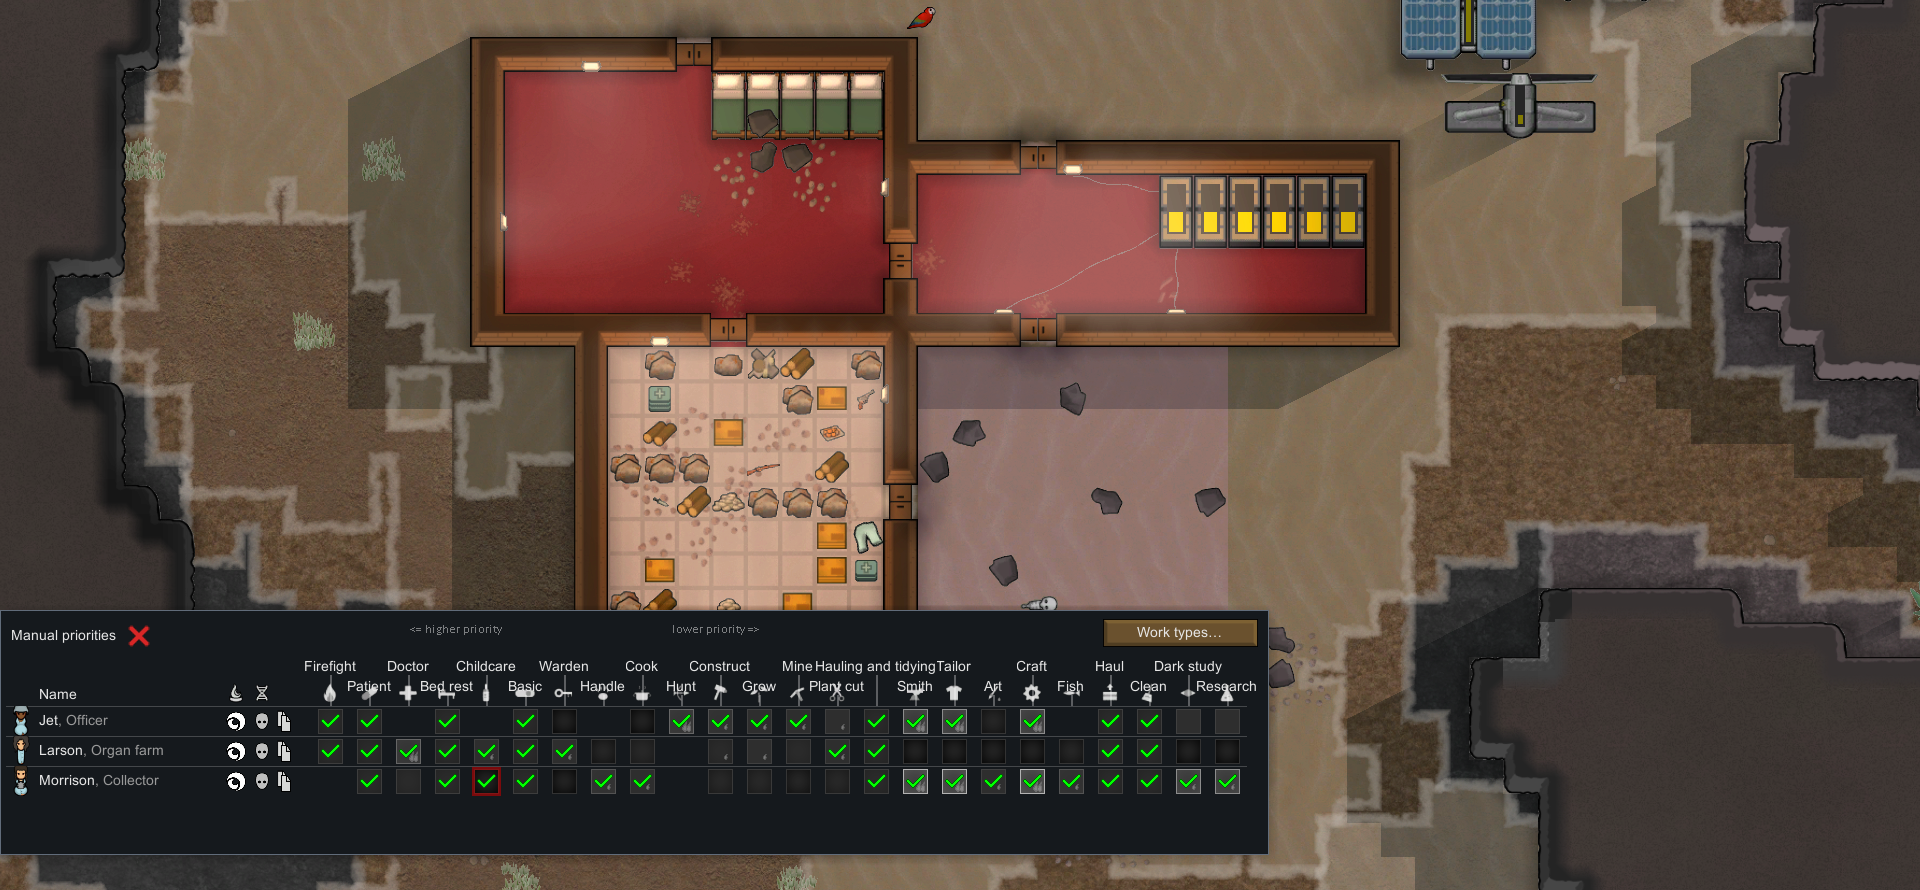
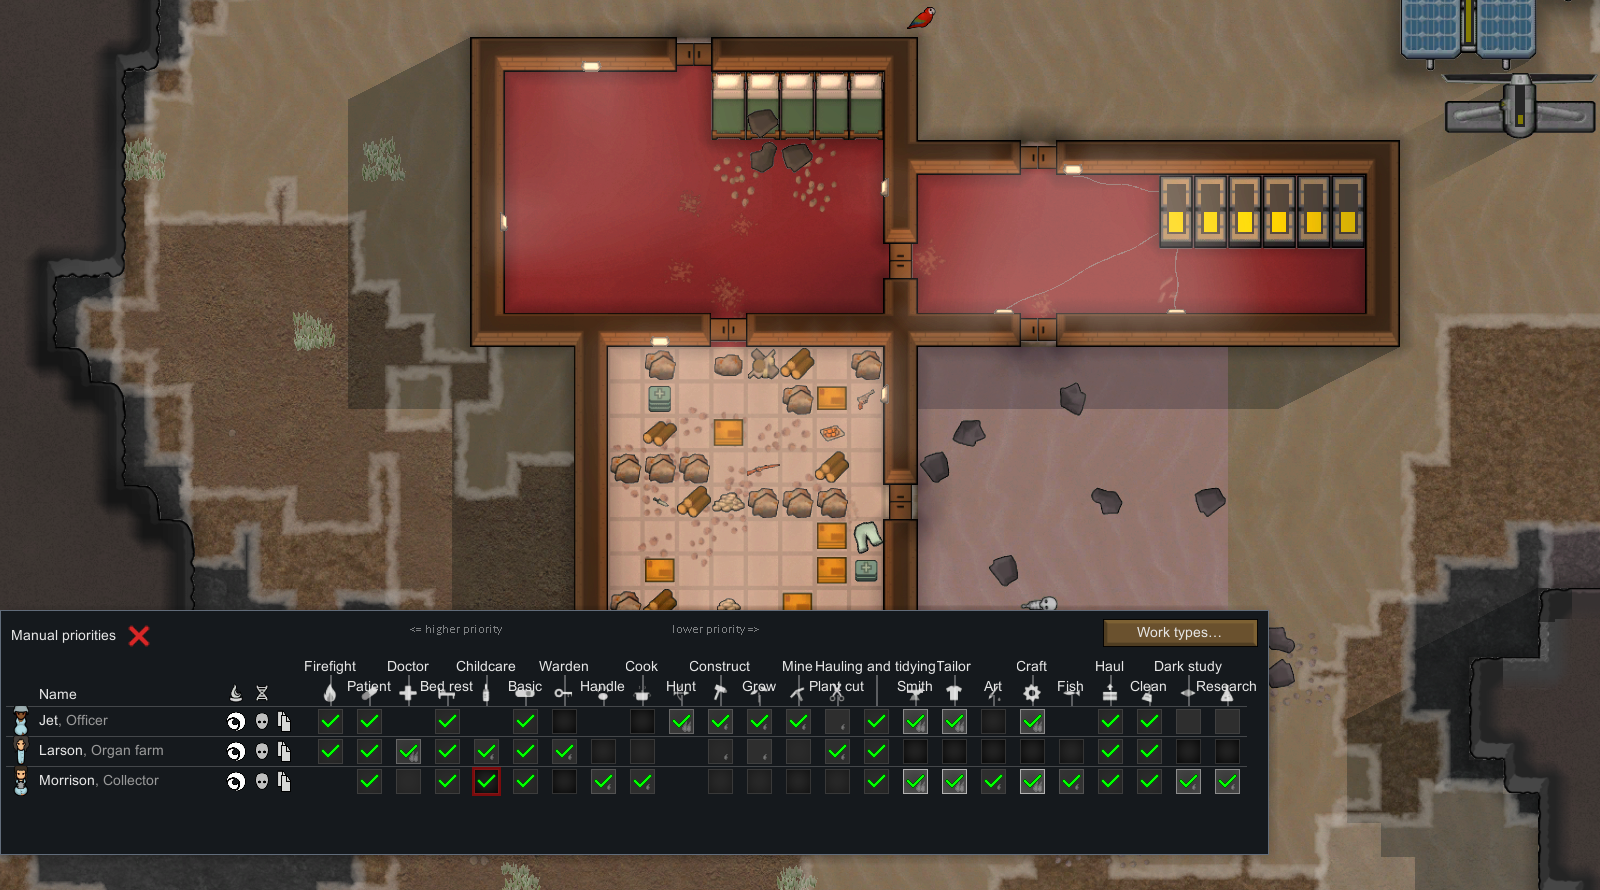
Keep every Workshop screenshot under 2 MB, and document the rule
Re-cropped image 2 tighter (trimming the empty desert on the right, not just the sky) to bring
it from 2.3 MB to 1.78 MB. A first attempt resized it instead of cropping further and made it
BIGGER (2.2 -> 3.0 MB): resampling with interpolation blurs the pixel-art's flat regions and
hurts PNG compression. PUBLICATION.md now says to crop, not resize, and to check the byte size
before calling an upload ready.

diff --git a/PUBLICATION.md b/PUBLICATION.md
@@ -28,6 +28,11 @@ gaps is the owner's call, recorded here rather than hidden.
 
 ## Screenshot order
 
+**Each upload stays under 2 MB.** Pickle's raw captures are ~2-3 MB PNGs at 1920x1080; cropping the
+empty margin (never resampling — resizing with interpolation blurs flat pixel-art regions and can
+make the file BIGGER despite fewer pixels, as it did on the first attempt for image 2 below) is
+usually enough on its own. Check with `(Get-Item <file>).Length / 1MB` before calling one ready.
+
 Steam shows the first one large: it should be the most demonstrative, not the prettiest. Order,
 with what each proves, and where the file to upload is:
 
@@ -39,12 +44,13 @@ with what each proves, and where the file to upload is:
    `14-publication-shots.feature`, English, then `Art/Update-WorkshopScreenshots.ps1`), and this
    slot stays empty until then.
 2. **The new column, seen from the Work tab**: it exists immediately, no restart.
-   **`Art/Workshop/ready/02-the-new-column.png`, 1920×890 — ready.** Cropped 2026-09-22 from the
-   original 1920×1080 (`y 190-1080`) to trim the empty sky/solar-panel strip at the top; the
-   priorities panel and the built rooms now fill more of the frame. Nothing in the dialog was cut.
+   **`Art/Workshop/ready/02-the-new-column.png`, 1600×890, 1.78 MB — ready.** Cropped 2026-09-22 from
+   the original 1920×1080 (`x 0-1600, y 190-1080`) to trim the empty sky and the mostly-empty desert
+   on the right (solar panels already half cut off there); the priorities panel and the built rooms
+   fill more of the frame. Nothing in the dialog was cut.
 3. **The settings window**, opened through Mod options, so the page shows there is a configuration
    surface beyond the editor.
-   **`Art/Workshop/ready/03-the-settings.png`, 1620×1000 — ready.** Cropped 2026-09-22 from
+   **`Art/Workshop/ready/03-the-settings.png`, 1620×1000, 1.66 MB — ready.** Cropped 2026-09-22 from
    1920×1080 (`x 150-1770, y 40-1040`) to trim the wide empty desert on both sides and a sliver top
    and bottom; the dialog itself (`x 510-1408, y 190-890` in the original) is untouched.
 
